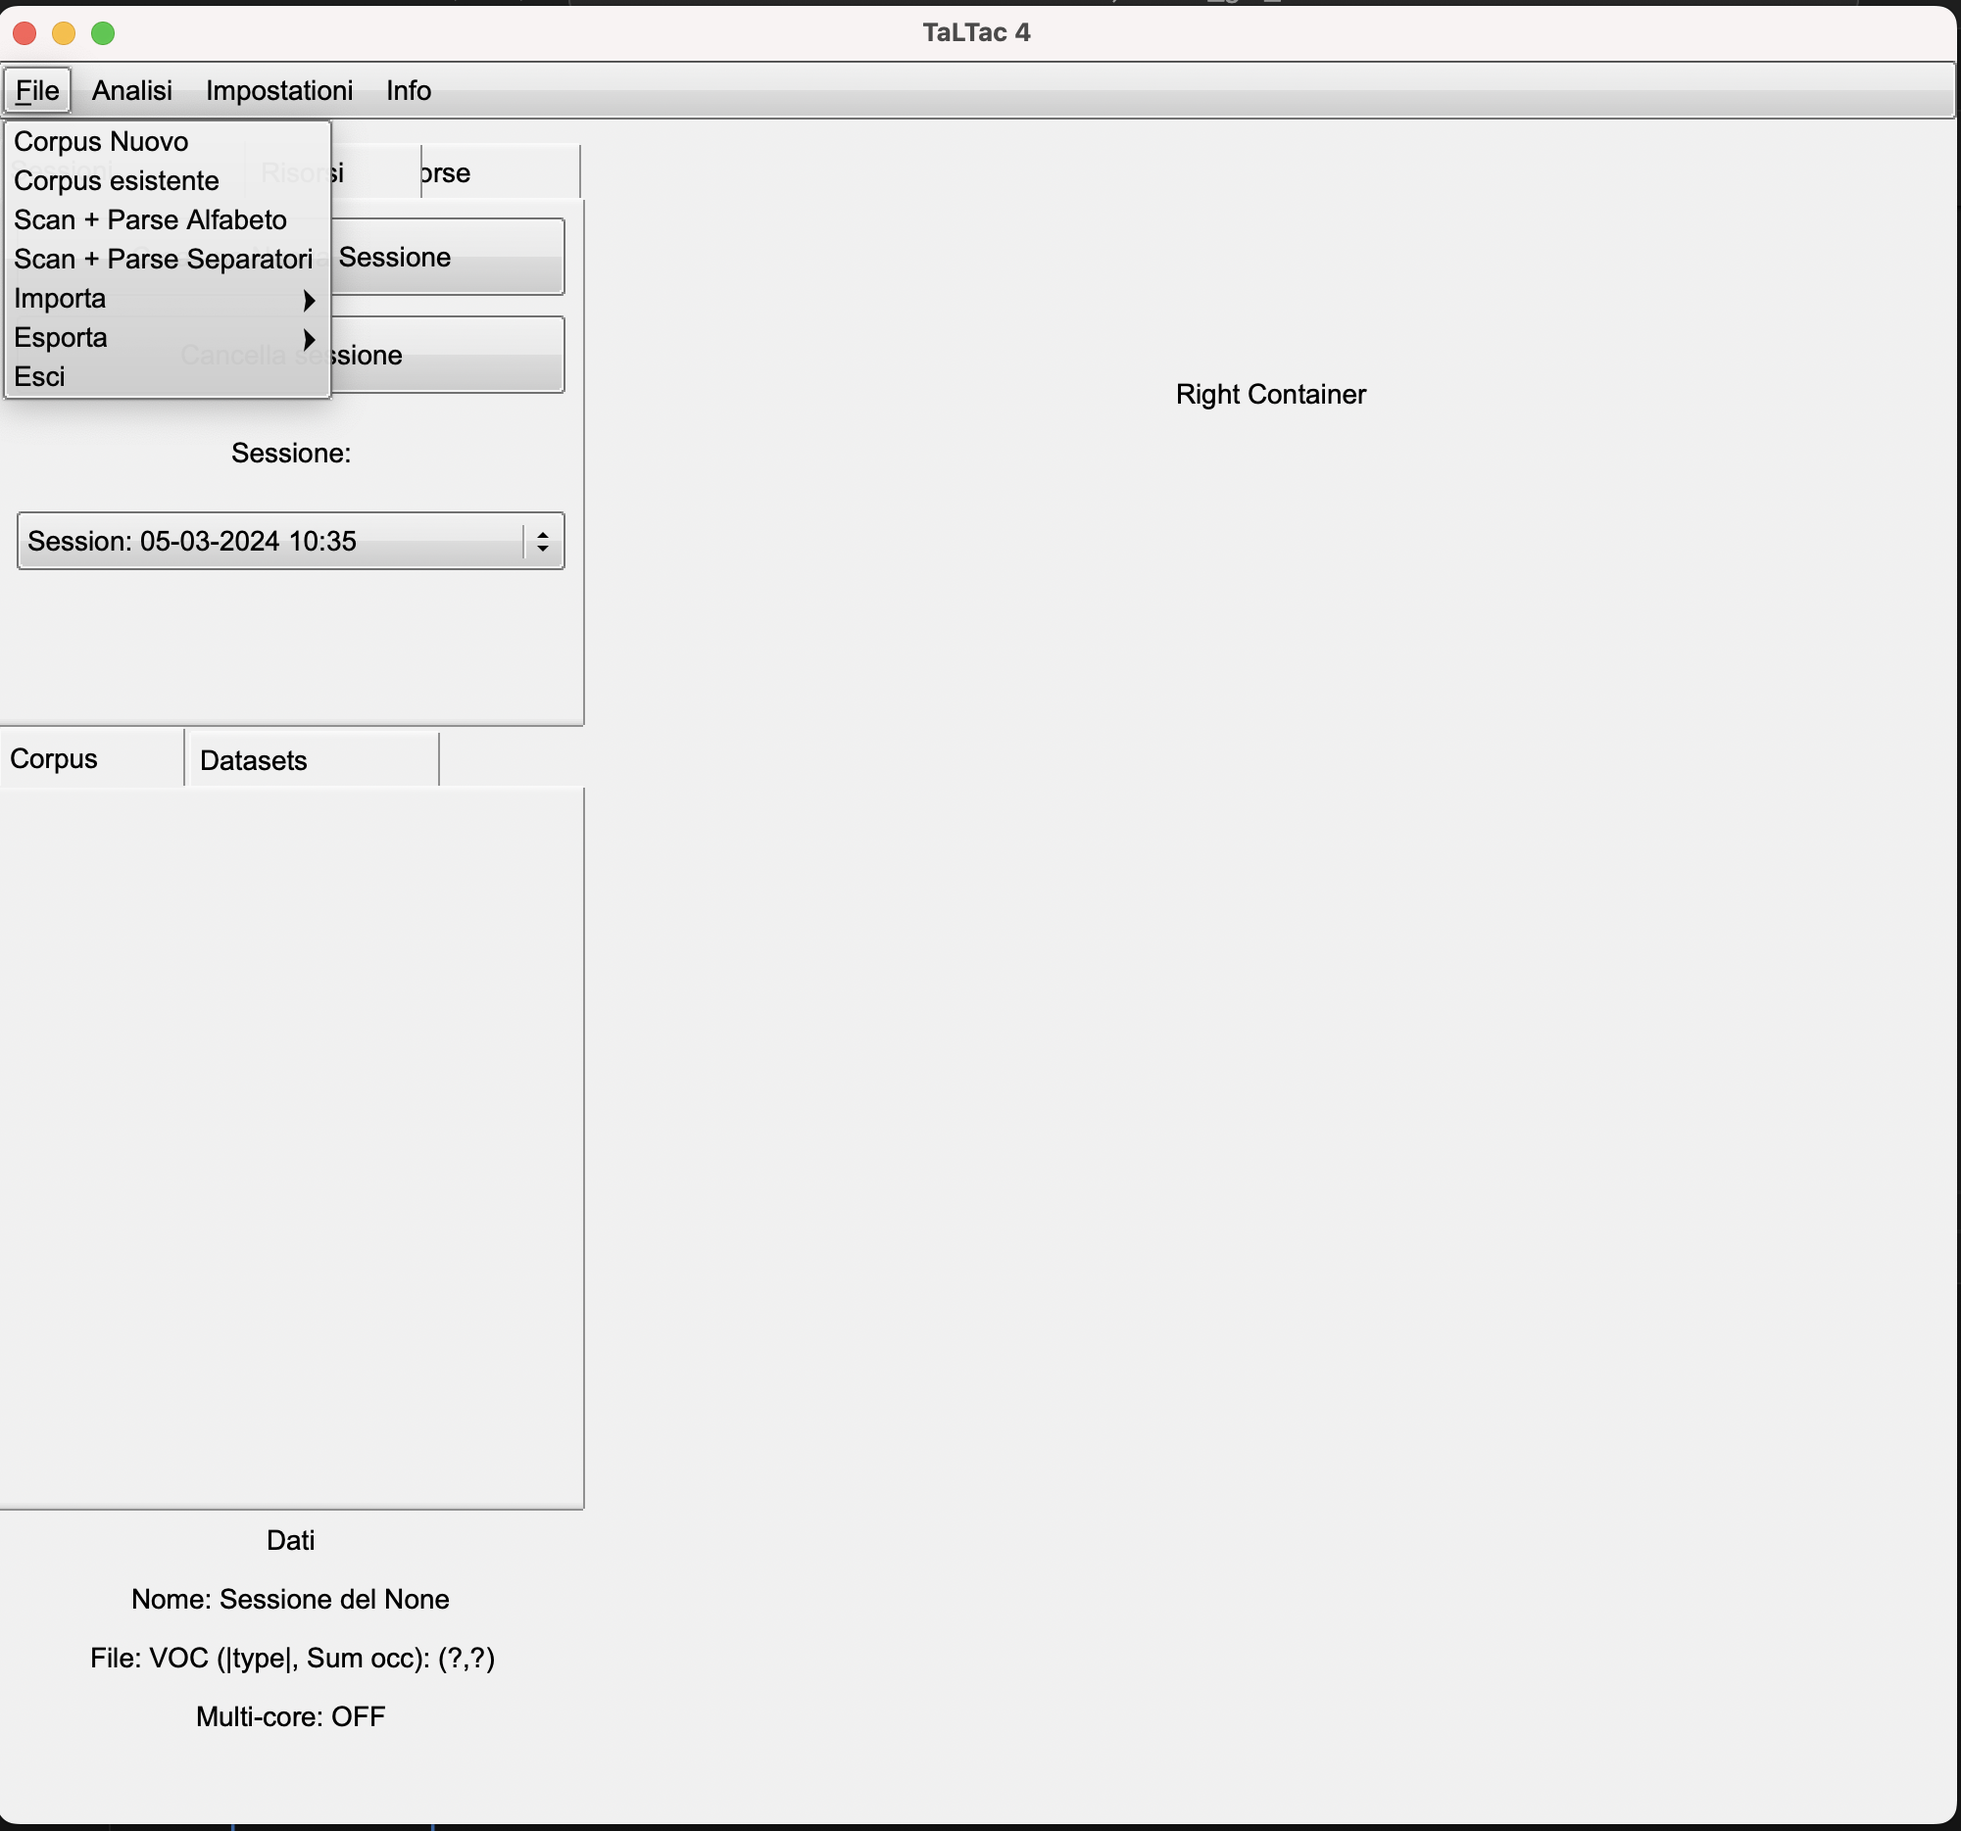
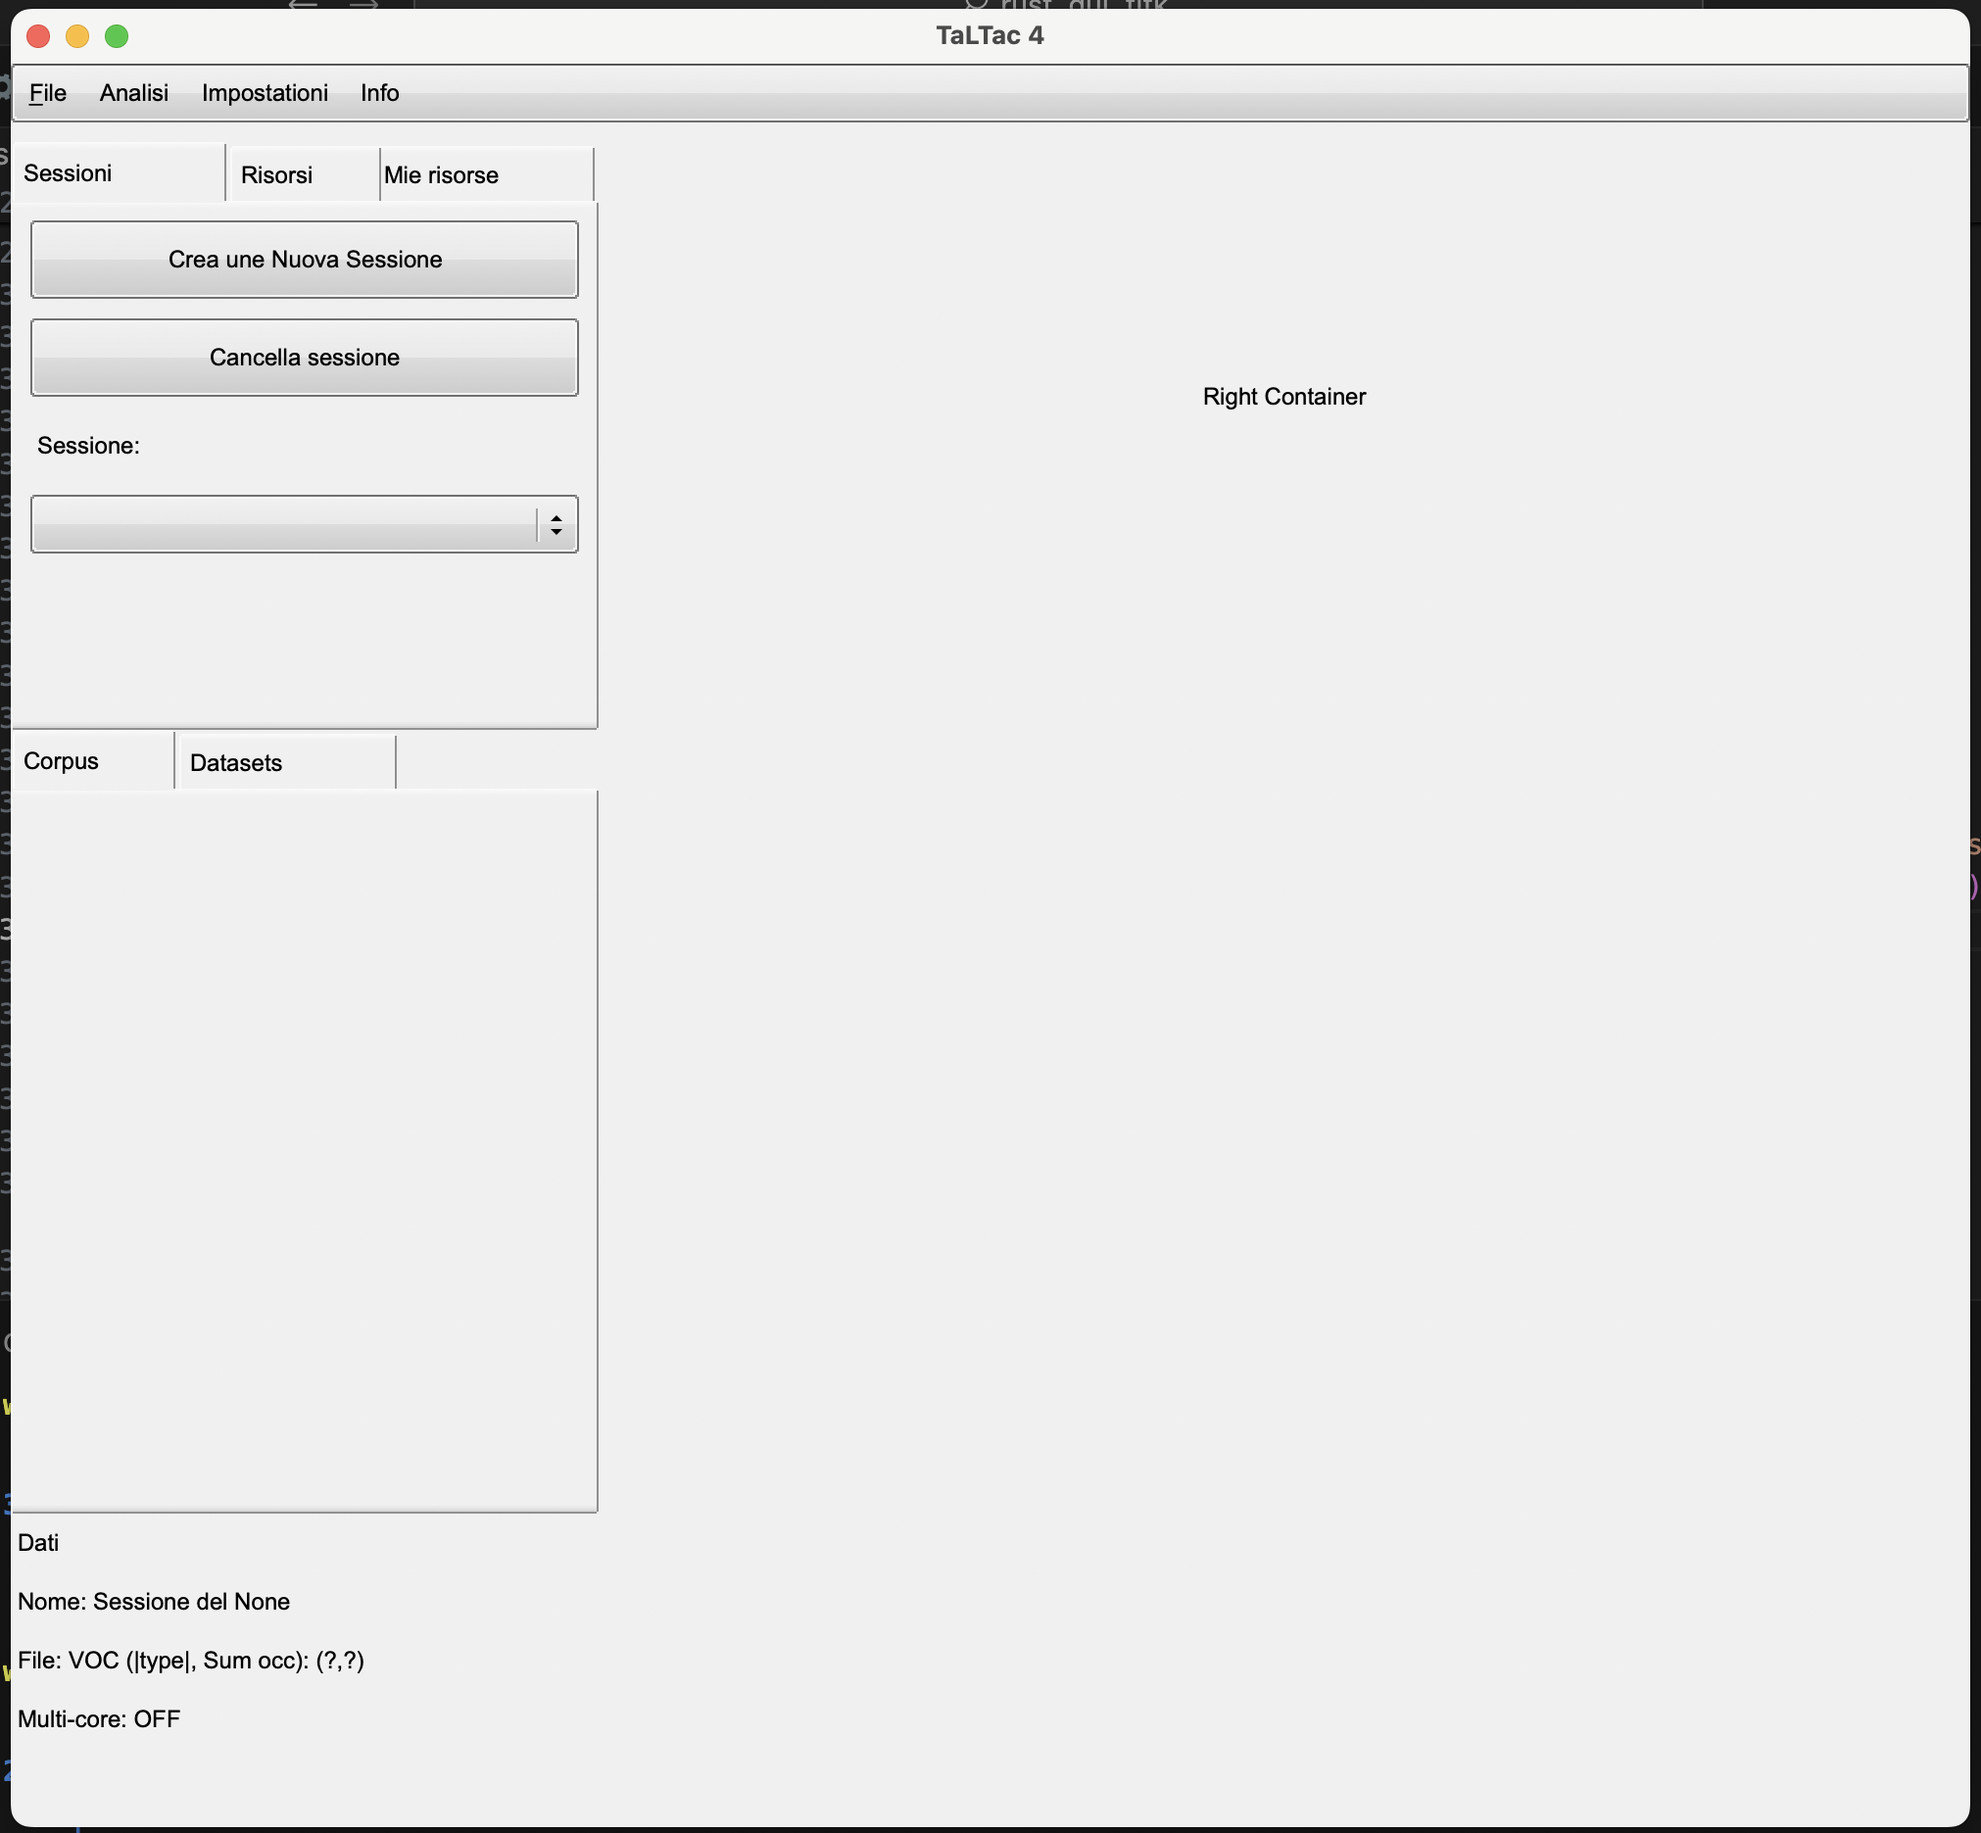
look and align

diff --git a/src/main.rs b/src/main.rs
@@ -244,11 +244,15 @@ fn draw_left_bottom_panel() {
    leftpack.end();
 }
 fn draw_left_bottom_panel_content(){
-    let _frame3 = Frame::new(0, 400, LEFT_WIDTH, 30, "Dati");
-    let mut frame = Frame::new(0, 0, LEFT_WIDTH, 30, "Nome: Sessione del None");
-    let mut frame2 = Frame::new(0, 0, LEFT_WIDTH, 30, "File: VOC (|type|, Sum occ): (?,?)");
-    let mut frame3 = Frame::new(0, 0, LEFT_WIDTH, 30, "Multi-core: OFF");
-
+    drawLeftText("Dati");
+    drawLeftText("Nome: Sessione del None");
+    drawLeftText("File: VOC (|type|, Sum occ): (?,?)");
+    drawLeftText("Multi-core: OFF");
+ 
+ }
+fn drawLeftText(text:&str){
+    let _frame3 = Frame::new(0, 400, LEFT_WIDTH, 30, text).set_align(enums::Align::Left | enums::Align::Inside );
+    
 }
 fn draw_left_middle_panel() {
     let mut tabs2 = Tabs::new(0, MENU_HEIGHT, LEFT_WIDTH, 400, "");
@@ -308,7 +312,7 @@ fn draw_left_top_panel_tab1(){
 
       let mut btn1 = button::Button::new(0, 0, LEFT_WIDTH, 40, "Crea une Nuova Sessione");
       let mut btn2 = button::Button::new(0, 0, LEFT_WIDTH, 40, "Cancella sessione");
-      let mut lbl = frame::Frame::new(0, 0, LEFT_WIDTH, 40, "Sessione:");
+      drawLeftText("Sessione:");
       let mut choice = menu::Choice::new(50, 100, LEFT_WIDTH, 30, None);
       choice.add_choice("Session: 05-03-2024 10:35 | 06-03-2024 14:22 ");
       frame1_pack.end();
@@ -321,6 +325,7 @@ fn main() {
     theme.apply();
     let widget_theme = WidgetTheme::new(ThemeType::Aero);
     widget_theme.apply();
+    app::set_font_size(12);
     let mut wind = Window::default()
         .with_size(WIN_WIDTH, WIN_HEIGHT)
         .with_label("TaLTac 4")
